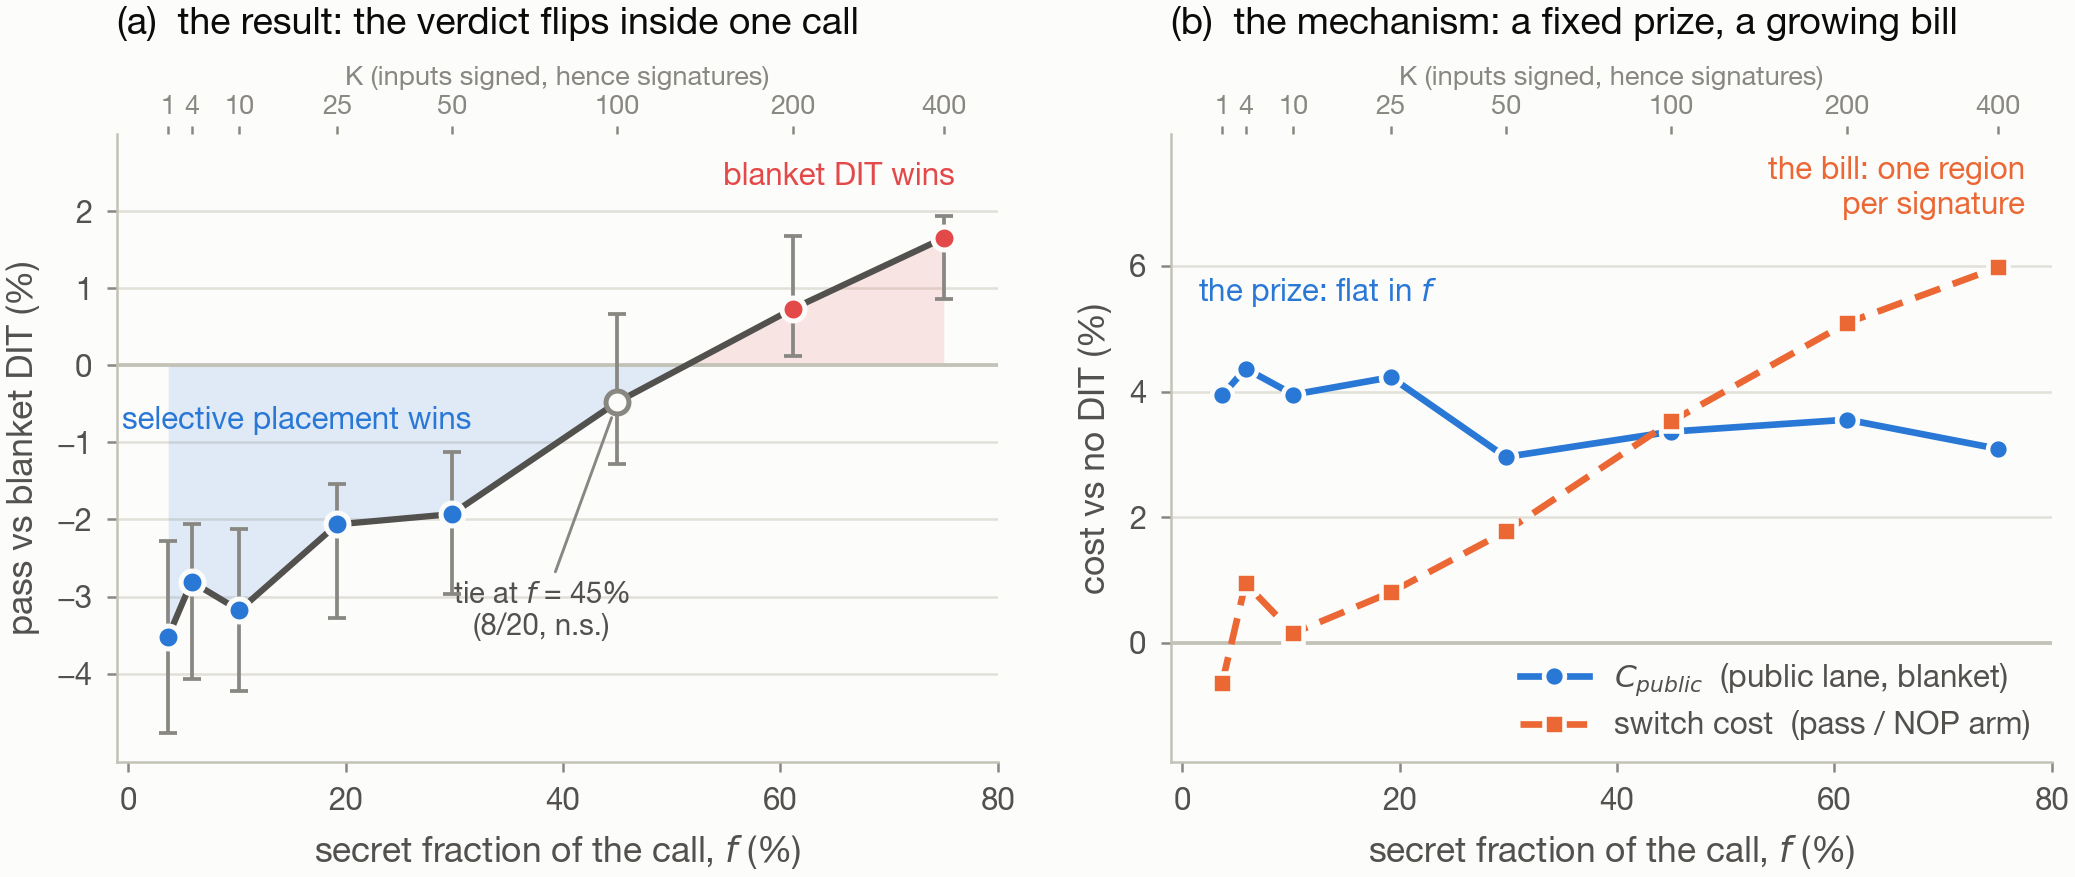
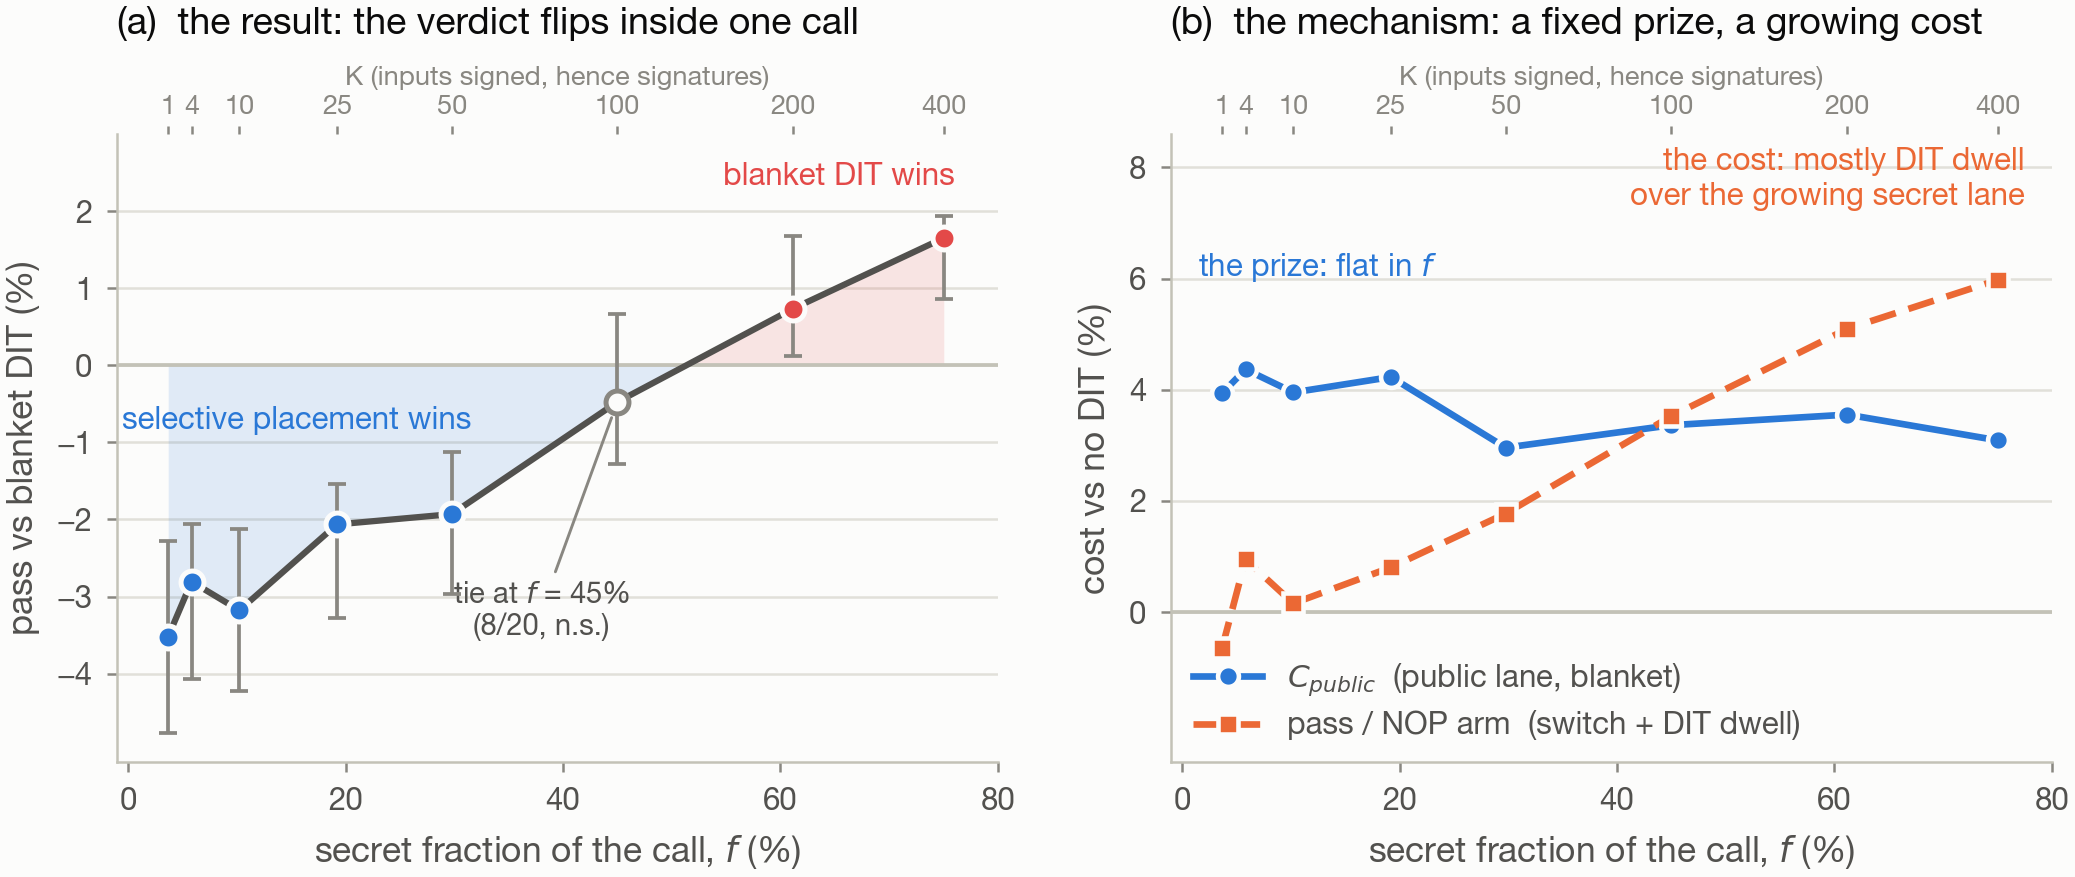
[paper] Experiment 01: the last column is not the switch cost
The column was labelled `switch cost` and the mechanism was described as "a
fixed prize against a linearly growing toggle bill". The prize is flat and the
cost does grow, but the growing cost is not toggles.

The column is `pass/passnop`, and `passnop` emits HINT #0 in place of every
inserted MSR DIT. PSTATE.DIT is therefore never set, so that arm loses the
PROTECTION along with the switch, and the difference is

    switch cost + DIT dwell over the regions the pass protects

with dwell growing as the secret lane grows. This experiment's own gem5 flow
(the 2026-09-03 re-take) isolates serialisation by running one binary under
two switch models -- same codegen, same dwell, only the MSR DIT implementation
differing -- and measures +1.21% at K=400 against the +5.98% this column
reports, at 31 to 37 cycles per committed switch. Even crediting dwell at this
experiment's own measured C_secret, about a third of the column is still
unaccounted for.

The crossover is untouched. `pass vs blanket` compares two arms that both
protect the secret lane, so the dwell term is in both and cancels; the verdict
column, the sign tests, the crossover position and Figure 1's panel (a) all
stand.

Renames the column to `pass vs nop` in the generator as well as the committed
table, so regenerating does not reinstate the wrong name, and records the
correction as caveat 4 and as limit 8 on the experiment README, and
rewrites the README's mechanism sentence and Figure 1 description to match.
[…]

diff --git a/paper_experiments/01-bitcoin-core-wallet/figures/plot_crossover.py b/paper_experiments/01-bitcoin-core-wallet/figures/plot_crossover.py
@@ -4,7 +4,19 @@
 Two panels sharing one x-axis (the measured secret fraction):
 
   (a) the result     - pass vs blanket, crossing zero inside one wallet call
-  (b) the mechanism  - a flat public-lane prize meeting a growing toggle bill
+  (b) the mechanism  - a flat public-lane prize meeting a growing cost
+
+CORRECTED 2026-09-02. Panel (b)'s second curve was labelled "switch cost" and
+described as the toggle bill. It is `pass/passnop`, and `passnop` emits HINT #0
+in place of every inserted MSR DIT, so PSTATE.DIT is never set and that arm
+loses the PROTECTION as well as the switch. The curve is switch cost PLUS DIT
+dwell over the regions the pass protects, and dwell grows with the secret lane.
+This experiment's own gem5 flow isolates serialisation on one binary under two
+switch models and measures +1.21% at K=400 against the +5.98% this curve
+reports. The panel
+still shows a fixed prize meeting a growing cost -- that part held -- but the
+growing cost is not toggles. Panel (a) is unaffected: pass vs blanket compares
+two arms that both protect, so dwell is in both and cancels.
 
 Panel (b) explains panel (a): the two lines in (b) cross at roughly the f where
 (a) crosses zero, which is the claim ("a fixed prize against a linearly growing
@@ -33,7 +45,7 @@ MUTED = "#898781"
 GRID = "#e1e0d9"
 AXIS = "#c3c2b7"
 SERIES_1 = "#2a78d6"   # slot 1, blue    - the prize / "pass wins" pole
-SERIES_2 = "#eb6834"   # slot 2, orange  - the toggle bill
+SERIES_2 = "#eb6834"   # slot 2, orange  - the pass's own cost (switch + dwell)
 POLE_HI = "#e34948"    # slot 8, red     - "blanket wins" pole of the diverging pair
 
 # ---- statistics, identical definitions to table_wallet_sweep.py -------------
@@ -96,7 +108,7 @@ def build(rows):
 
 
 # ---- the committed table, as a regression gate ------------------------------
-# K: (f_secret, pass-vs-blanket, C_public, switch cost) from ../table1.md
+# K: (f_secret, pass-vs-blanket, C_public, pass-vs-nop) from ../table1.md
 TABLE1 = {
     1:   (3.7,  -3.52, 3.94, -0.64),
     4:   (5.8,  -2.81, 4.37, +0.95),
@@ -221,22 +233,24 @@ def panel_b(ax, tab):
             label="$C_{public}$  (public lane, blanket)")
     ax.plot(f, sw, "--s", color=SERIES_2, linewidth=1.6, markersize=4.6,
             markeredgecolor=SURFACE, markeredgewidth=1.1, zorder=4,
-            dashes=(4, 2), label="switch cost  (pass / NOP arm)")
+            dashes=(4, 2), label="pass / NOP arm  (switch + DIT dwell)")
 
     ax.set_xlabel("secret fraction of the call, $f$ (%)")
     ax.set_ylabel("cost vs no DIT (%)")
-    ax.set_title("(b)  the mechanism: a fixed prize, a growing bill",
+    ax.set_title("(b)  the mechanism: a fixed prize, a growing cost",
                  loc="left", color=INK, pad=24)
-    ax.set_ylim(-1.9, 8.1)
-    ax.set_yticks([0, 2, 4, 6])
+    ax.set_ylim(-2.7, 8.6)
+    ax.set_yticks([0, 2, 4, 6, 8])
 
-    ax.text(1.5, cpub[0] + 1.5, "the prize: flat in $f$", color=SERIES_1,
+    ax.text(1.5, cpub[0] + 2.1, "the prize: flat in $f$", color=SERIES_1,
             fontsize=7.5, fontweight="bold", ha="left")
-    ax.text(f[-1] + 2.5, sw[-1] + 0.85, "the bill: one region\nper signature",
+    ax.text(f[-1] + 2.5, sw[-1] + 1.35, "the cost: mostly DIT dwell\nover the growing secret lane",
             color=SERIES_2, fontsize=7.5, fontweight="bold", ha="right",
             linespacing=1.25)
+    # The switch/dwell split is a caption matter: it comes from a different
+    # instrument (this experiment's gem5 flow) and would be a third encoding here.
 
-    leg = ax.legend(loc="lower right", frameon=False, handlelength=2.2,
+    leg = ax.legend(loc="lower left", frameon=False, handlelength=2.2,
                     borderaxespad=0.3, labelspacing=0.4)
     for txt in leg.get_texts():
         txt.set_color(SECOND)

diff --git a/utils/dit_host_screening/btc/table_wallet_sweep.py b/utils/dit_host_screening/btc/table_wallet_sweep.py
@@ -1,6 +1,19 @@
 #!/usr/bin/env python3
 """Emit the paper table for the Bitcoin wallet secret-fraction sweep.
 
+NOTE ON THE LAST COLUMN. It is `pass/passnop` and it is NOT the switch cost,
+though it was labelled that until 2026-09-02. `passnop` emits `HINT #0` in place
+of every inserted `MSR DIT`, so PSTATE.DIT is never set and that arm loses the
+PROTECTION along with the switch. The column is therefore
+
+    switch cost  +  DIT dwell over the regions the pass protects
+
+and the dwell term grows with the secret lane, which is most of why the column
+climbs with K. Experiment 01's own gem5 flow isolates serialisation on one binary
+under two switch models and gets +1.21% at K=400 against the +5.98% this column
+reports.
+Do not describe it as the toggle bill.
+
 Reads the same CSV as analyze_wallet_sweep.py and emits the table in Markdown
 and LaTeX. Adds what the analyser does not: an exact two-sided sign test on
 every paired cell, so a median ratio is never reported as a win or a loss
@@ -102,7 +115,7 @@ if "--latex" not in sys.argv:
     print(f"Median per-rep ratio; n/{N} = reps where the first-named arm is slower; "
           f"exact two-sided sign test.\n")
     print("| K (inputs) | f_secret | baseline | C_public | C_whole | pass vs base | "
-          "pass vs blanket | sign test | verdict | switch cost |")
+          "pass vs blanket | sign test | verdict | pass vs nop |")
     print("|---|---|---|---|---|---|---|---|---|---|")
     for t in TAB:
         x = t["xover"]

diff --git a/paper_experiments/01-bitcoin-core-wallet/figures/crossover.tex b/paper_experiments/01-bitcoin-core-wallet/figures/crossover.tex
@@ -22,8 +22,17 @@
     construction.
     \textbf{(b)}~Why. The prize---what blanket DIT costs on the public lane
     alone---is flat in $f$, because blanket DIT protects everything either way.
-    The pass's toggle bill grows linearly, because each additional signature is
-    one more DIT region. Their crossing in~(b) is the zero crossing in~(a).
+    The pass's own cost grows with the secret lane it protects, and their
+    crossing in~(b) is the zero crossing in~(a).
+    The growing curve is \texttt{pass/passnop}. It is \emph{not} the switch
+    cost: the NOP arm emits \texttt{HINT~\#0} in place of every inserted
+    \texttt{MSR~DIT}, so \texttt{PSTATE.DIT} is never set and that arm loses
+    the protection as well as the switch. The curve is the switch \emph{plus}
+    DIT dwell over the protected regions. Running one binary under two
+    \textsc{msr dit} implementations in gem5 isolates serialisation at
+    $+1.21\%$ at $K=400$, against the $+5.98\%$ this curve reports.
+    Panel~(a) is unaffected: \texttt{pass} and \texttt{blanket} both protect
+    the secret lane, so the dwell term is present in both and cancels.
     Numbers are identical to Table~\ref{tab:crossover}; the plotting script
     asserts this.%
   }

diff --git a/paper_experiments/01-bitcoin-core-wallet/table1.md b/paper_experiments/01-bitcoin-core-wallet/table1.md
@@ -28,7 +28,7 @@ Table 1: Selective vs blanket DIT across the secret fraction of one Bitcoin Core
 WalletCreateTxUsePresetInputsAndCoinSelection, Apple silicon, 20 paired reps per cell, rotated arm order.
 Median per-rep ratio; n/20 = reps where the first-named arm is slower; exact two-sided sign test.
 
-| K (inputs) | f_secret | baseline | C_public | C_whole | pass vs base | pass vs blanket | sign test | verdict | switch cost |
+| K (inputs) | f_secret | baseline | C_public | C_whole | pass vs base | pass vs blanket | sign test | verdict | pass vs nop |
 |---|---|---|---|---|---|---|---|---|---|
 | 1 | 3.7% | 15.12 ms | +3.94% | +3.25% | +0.10% | **-3.52%** | 1/20 *** | pass | -0.64% |
 | 4 | 5.8% | 15.62 ms | +4.37% | +3.74% | +0.78% | **-2.81%** | 0/20 *** | pass | +0.95% |
@@ -64,7 +64,7 @@ reaches p<0.05, so 8/20 is a tie however its median reads).
 | `C_whole` | always/baseline | blanket DIT over the whole call |
 | `pass vs base` | pass/baseline | the shipped pass's absolute overhead |
 | `pass vs blanket` | pass/always | **the headline**; negative = selective placement wins |
-| `switch cost` | pass/passnop | the `msr DIT` instruction's own cost, placement held identical |
+| `pass vs nop` | pass/passnop | **NOT the switch cost** - see below. The switch PLUS DIT dwell over the regions the pass protects |
 
 ---
 
@@ -75,11 +75,31 @@ Significant wins through f=29.8%, a tie at 45.0%, significant losses from 61.2%.
 The framework's ~20% threshold is too pessimistic: the pass still wins
 significantly at 29.8% (-1.93%, 1/20).
 
-**The mechanism is visible in the last column.** Switch cost climbs monotonically
--0.64% -> +5.98% as K grows, because each additional signature is one more DIT
-region. The public-lane prize (`C_public`) meanwhile stays flat at +3.0..4.4%.
-The crossover is those two lines meeting: a fixed prize against a linearly
-growing toggle bill.
+**The mechanism is visible in the last column, but it is not what this table
+originally said it was.** `pass vs nop` climbs monotonically -0.64% -> +5.98% as
+K grows while the public-lane prize (`C_public`) stays flat at +3.0..4.4%, and
+the crossover is those two lines meeting: **a fixed prize against a growing
+cost.** That much holds.
+
+What that growing cost *is* was wrong. It was described as the toggle bill, one
+more DIT region per signature. It is not. `passnop` emits `HINT #0` in place of
+every inserted `MSR DIT`, so `PSTATE.DIT` is never set and that arm loses the
+**protection** along with the switch. The column is therefore
+
+    switch cost  +  DIT dwell over the regions the pass protects
+
+and dwell grows with the secret lane, which is most of the climb. This
+experiment's own gem5 flow (README, "the two lanes in one flow") isolates
+serialisation by running one binary under two switch models -- same codegen,
+same dwell, only the `MSR DIT` implementation differing -- and measures
+**+1.21% at K=400 against the +5.98% this column reports**, at 31 to 37 cycles
+per committed switch. Even crediting dwell at this experiment's own independently
+measured `C_secret` (+3.39% of the 47.4 ms secret lane), roughly a third of the
+column remains unaccounted for.
+
+**None of this touches the crossover.** `pass vs blanket` compares two arms that
+both protect the secret lane, so the dwell term is present in both and cancels.
+The verdict column, the sign tests and the crossover position are unaffected.
 
 **Blanket DIT is nearly flat in f** (`C_whole` +2.84..+4.32%), which is the
 control that says the ratio is moving because the pass's cost moves, not because
@@ -106,7 +126,10 @@ the workload got more DIT-sensitive.
 3. **Closure is OK but not tight.** Implied `C_secret` median +4.83% against the
    independently measured +3.39%, spread 3.55 pp over the four voting points
    (f >= 25%). Within the analyser's gate, but the +1.44 pp gap is unexplained.
-4. **gem5 cannot confirm the magnitude here.** It reproduces silicon's always-on
+4. **The last column is not the switch cost.** See "Reading it" above. The
+   crossover is unaffected; the mechanism sentence was wrong from 2026-08-31 to
+   2026-09-02 and is corrected here.
+5. **gem5 cannot confirm the magnitude here.** It reproduces silicon's always-on
    cost on the coin-selection kernel (+11.06% vs +13.01%) but reads ~zero on
    ECDSA signing. This is a silicon-only result; the renamed-switch
    counterfactual still wants a gem5 arm.

diff --git a/paper_experiments/01-bitcoin-core-wallet/README.md b/paper_experiments/01-bitcoin-core-wallet/README.md
@@ -34,8 +34,10 @@ in the order the wallet runs them, with one integer varying the ratio.
 | the two lanes in one flow, gem5 (2026-09-03) | **the pass beats blanket through f = 54% under both switch models**, by 3.5 points renamed and 2.8 serialising at that f; beyond it the margins (down to 2.0 and 0.8 at f = 83%) sit inside gem5's code-placement floor, so the crossover lies above 54% where silicon's is at 45 to 50% |
 
 **The mechanism**: blanket's cost is flat in f because it protects everything
-either way; what grows is the pass's toggle bill (+0.20% -> +6.08% switch cost).
-The crossover is a fixed prize meeting a linearly growing cost.
+either way; what grows is the pass's own cost over the secret lane it protects
+(`pass vs nop`, +0.20% -> +6.08%). That column is the switch PLUS DIT dwell,
+not the toggle bill alone: the gem5 flow isolates serialisation at +1.2% at
+K = 400 (known limit 8). The crossover is a fixed prize meeting a growing cost.
 
 ## What is public and what is secret
 
@@ -78,7 +80,8 @@ dependence chain, and DIT switches the predictor off.
 Two panels sharing the x-axis: **(a)** the result, selective placement against
 blanket DIT crossing zero at $f \approx 51\%$ with the sign test unable to
 resolve $f = 45\%$; **(b)** the mechanism, a flat public-lane prize meeting a
-linearly growing toggle bill, crossing at $f \approx 43\%$. Panel (b) is the
+growing cost (the switch plus DIT dwell over the secret lane, known limit 8),
+crossing at $f \approx 43\%$. Panel (b) is the
 argument for panel (a) - the claim is drawn, not asserted.
 
     python3 paper_experiments/01-bitcoin-core-wallet/figures/plot_crossover.py
@@ -303,7 +306,7 @@ max/min - 1 over offsets of any arm. Negative pass vs blanket = the pass wins.
    Silicon crosses earlier because its switch costs more and its blanket
    costs the secret lane: the crossover's position is a property of the
    switch implementation and of what DIT costs the secret lane, not of the
-   lanes themselves. This is the counterfactual Table 1's caveat 4 asked
+   lanes themselves. This is the counterfactual Table 1's caveat 5 asked
    for, with the resolution it comes at.
 4. **The serialising switch costs 31 to 37 cycles.** Serialising minus renamed
    on the taint arm, divided by its committed switches, reads 34.8, 36.5,
@@ -385,3 +388,12 @@ across switch models, `ditSuppressed = 0` in base · equal-length `argv[0]`.
    renamed) are immune; every comparison against the taint arm carries it,
    in this experiment's sign bench and its flow alike. A link-placement
    sweep is the remedy and has not been run.
+8. **Table 1's last column is not the switch cost.** It is `pass/passnop`, and
+   `passnop` emits `HINT #0` in place of every inserted `msr DIT`, so
+   `PSTATE.DIT` is never set and that arm loses the PROTECTION along with the
+   switch. `pass - passnop` is therefore the switch plus DIT dwell over the
+   protected regions, and the gem5 flow above isolates serialisation alone at
+   +1.21% at K = 400 against the +5.98% that column reports on silicon. The
+   crossover is unaffected - `pass vs blanket` compares two arms that both
+   protect - but the column was named `switch cost` from 2026-08-31 to
+   2026-09-02 and is now `pass vs nop`.
